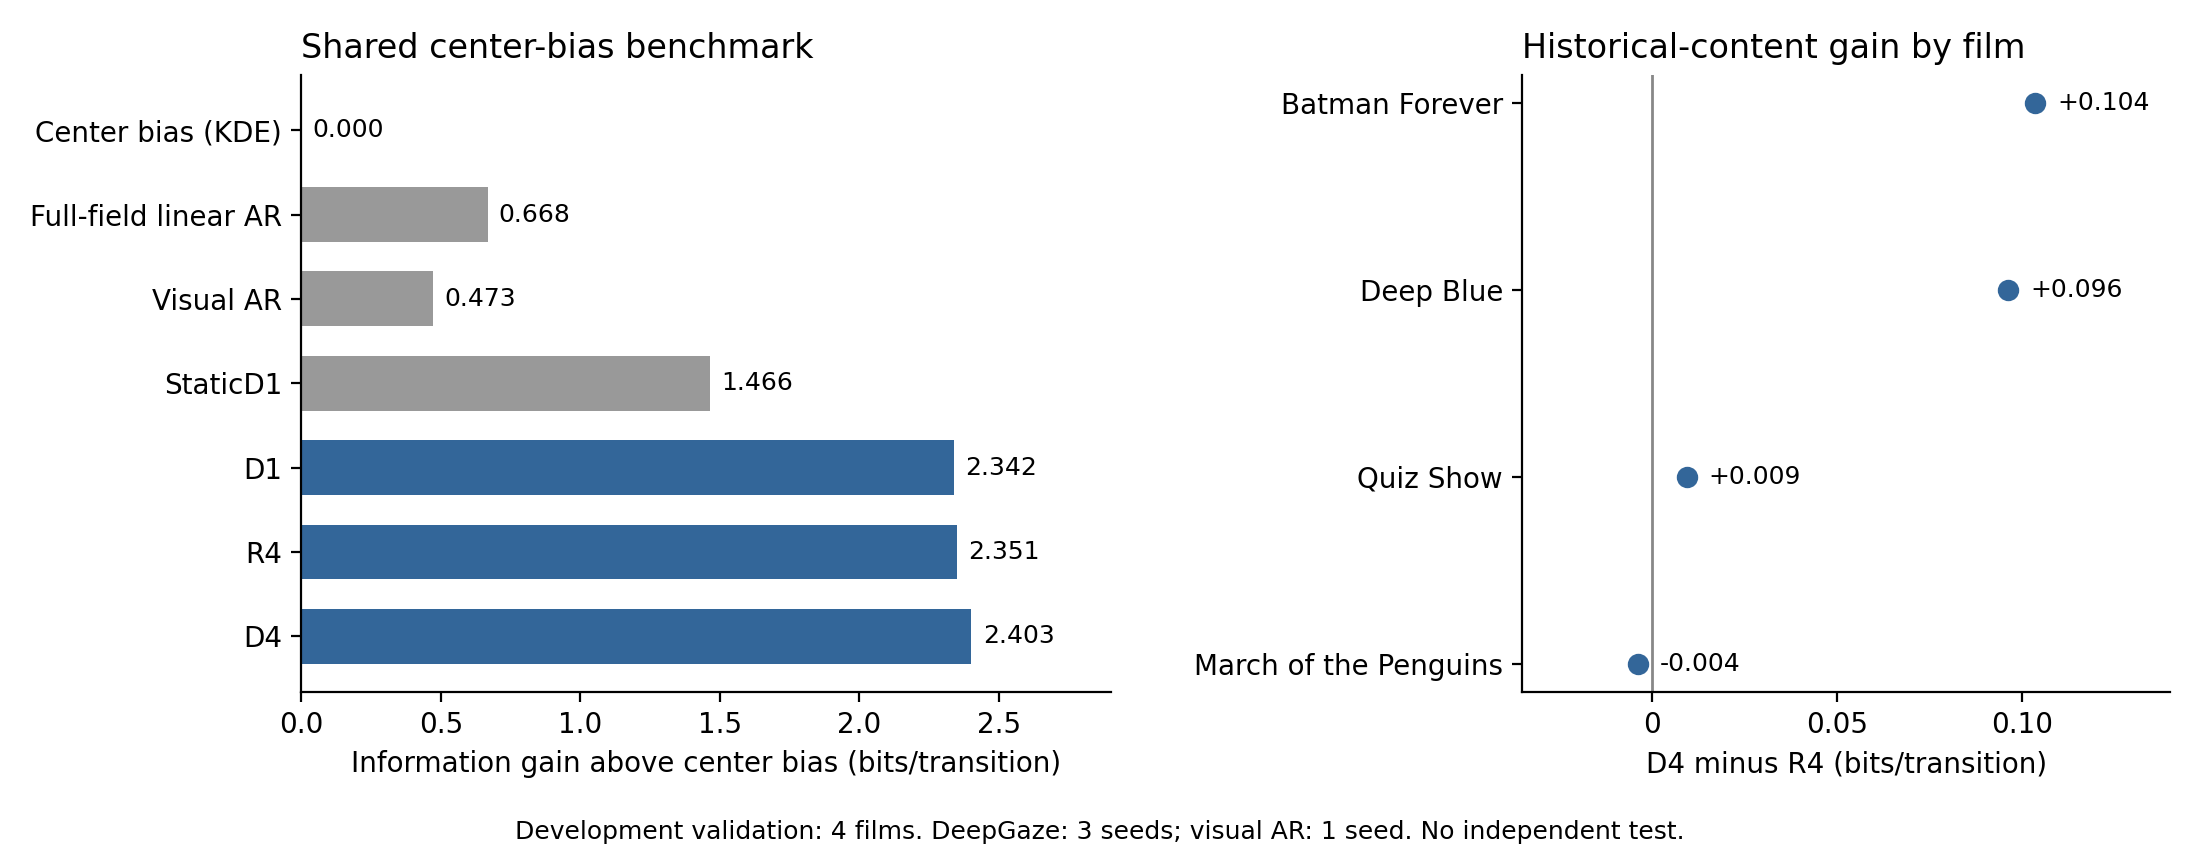
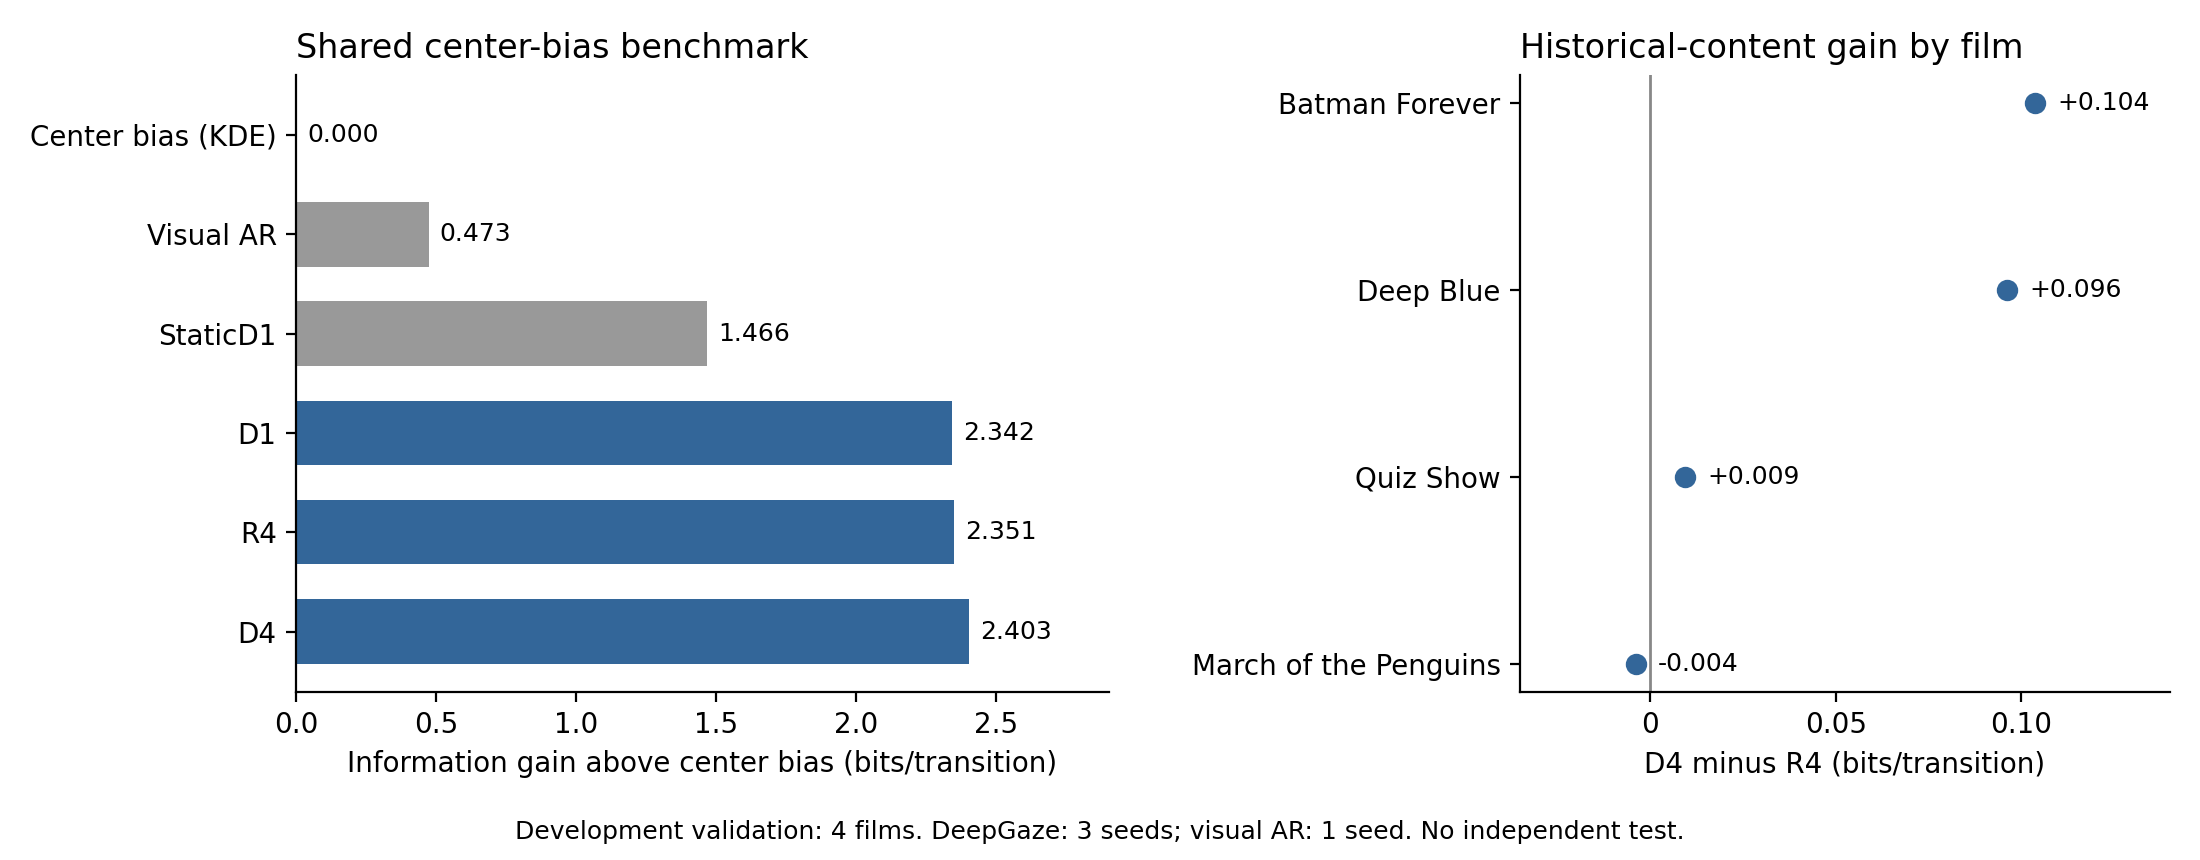
Simplify README and retain the visual AR benchmark

diff --git a/scripts/plot_results.py b/scripts/plot_results.py
@@ -27,12 +27,6 @@ def export_results(storage):
     center_bias = baselines['macro_film_bits']['train_kde_scott']
     names = [
         ('train_kde_scott', 'Center bias (KDE)'),
-        ('train_gaussian', 'Spatial Gaussian'),
-        ('existing_histogram', 'Spatial histogram'),
-        ('persistence', 'Persistence'),
-        ('ar1', 'Endpoint AR(1)'),
-        ('ar4', 'Endpoint AR(4)'),
-        ('linear_history4', 'Full-field linear AR'),
         ('neural_ar_d4', 'Visual AR'),
     ]
     benchmark = []
@@ -94,11 +88,11 @@ def plot(results, output):
                          'axes.unicode_minus': False, 'axes.spines.top': False,
                          'axes.spines.right': False})
     fig, (left, right) = plt.subplots(1, 2, figsize=(11, 4.3), gridspec_kw={'width_ratios': [1.25, 1]})
-    keys = ['train_kde_scott', 'linear_history4', 'neural_ar_d4', 'static_d1', 'd1', 'r4', 'd4']
+    keys = ['train_kde_scott', 'neural_ar_d4', 'static_d1', 'd1', 'r4', 'd4']
     rows = {row['model']: row for row in results['benchmark']}
     scores = [rows[key]['ig_bits'] for key in keys]
     labels = [rows[key]['label'] for key in keys]
-    colors = ['#999999'] * 4 + ['#336699'] * 3
+    colors = ['#999999'] * 3 + ['#336699'] * 3
     left.barh(range(len(keys)), scores, color=colors, height=0.65)
     left.set_yticks(range(len(keys)), labels)
     left.invert_yaxis()

diff --git a/README.md b/README.md
@@ -2,7 +2,7 @@
 
 Predict the next gaze landing in a video from the viewer's completed gaze events and the video frames available at saccade onset.
 
-This research workspace adapts [DeepGaze3.5-VL](https://arxiv.org/abs/2607.02083) to the `fovlanding-v1` task. It compares current-frame, repeated-frame, and historical-frame inputs, plus spatial and autoregressive (AR) baselines. Every predictor is benchmarked against the same training-fitted center-bias distribution.
+This project adapts [DeepGaze3.5-VL](https://arxiv.org/abs/2607.02083) to the `fovlanding-v1` task. It compares current-frame, repeated-frame, and historical-frame inputs with a visual autoregressive (AR) baseline. Every predictor is benchmarked against the same training-fitted center-bias distribution.
 
 ## Results
 
@@ -11,9 +11,6 @@ Information gain (IG) is the improvement in log likelihood over a training-only 
 | Model | Video input | IG above center bias |
 |---|---|---:|
 | Center bias (training KDE) | None | 0.000 |
-| Persistence | None | 0.411 |
-| Endpoint AR(4) | None | 0.612 |
-| Full-field linear AR | None | 0.668 |
 | Population visual AR | Four historical frames | 0.473 |
 | StaticD1: released DeepGaze adapter | Current frame | 1.466 |
 | D1: adapted DeepGaze | Current frame | 2.342 |
@@ -22,7 +19,7 @@ Information gain (IG) is the improvement in log likelihood over a training-only 
 
 ![Center-bias benchmark and historical-content gain by film](reports/results.png)
 
-DeepGaze D1/R4/D4 average three training seeds. Visual AR uses one seed and a different training budget. These are separate predictors, not a seed ensemble.
+DeepGaze D1/R4/D4 scores average three training seeds. Visual AR uses one seed and a different training budget.
 
 | Paired DeepGaze comparison | Mean gain, bits/transition |
 |---|---:|
@@ -34,7 +31,7 @@ D4 beats R4 in all three seeds, but most of its selected-checkpoint gain comes f
 
 These are development results. The validation films also select checkpoints; no untouched final test is reported. Playback alignment and per-trial display geometry remain assumed. The AR comparison differs in pretraining, capacity, resolution, and optimization, so it does not isolate an architecture advantage.
 
-See the [English manuscript](reports/DeepGaze35_Video_Manuscript.md) for methods and limitations. [Aggregate results](reports/results.json) include film and seed differences, descriptive intervals, and source hashes. The plot is regenerated by `scripts/plot_results.py`. Historical training logs use a histogram prior for their `ig_bits` field; the public results consistently subtract the KDE instead.
+See the [manuscript](reports/DeepGaze35_Video_Manuscript.md) for methods and limitations. [Aggregate results](reports/results.json) include film and seed differences, descriptive intervals, and source hashes.
 
 ## Method
 
@@ -59,11 +56,11 @@ D1 sees the current frame. D4 sees four causal frames at nominal offsets of -1, 
 
 Each condition trains for 1,000 updates with effective batch 16, AdamW learning rate 2e-5, and validation every 100 updates. Seeds 0, 1, and 2 share the same initialization and matched schedules within each seed.
 
-### Autoregressive baselines and center bias
+### Visual AR and center bias
 
 Visual AR uses frozen ImageNet ResNet18 features, 2 x 2 spatial pooling, a 32-unit GRU over gaze history, and five input-dependent diagonal Gaussians. Ordered frame features are compressed into a fixed context supplied to the GRU; the GRU does not recur over video frames. Gaussian cell integrals produce heatmaps and exact target likelihoods. The model has 77,689 trainable parameters and trains for 20 epochs.
 
-Linear AR fits the next coordinate from previous endpoints or all six gaze-history fields. Ridge and scale choices use leave-one-training-film-out validation. The center-bias KDE uses only training landing positions, with Scott bandwidths. Its cell probabilities are held fixed for every model:
+The center-bias KDE uses only training landing positions, with Scott bandwidths. Its cell probabilities are held fixed for every model:
 
 ```text
 IG(model) = mean_by_film(log2 p_model(target) - log2 p_center_bias(target))
@@ -78,27 +75,15 @@ scripts/       Data checks, comparisons, plotting, checkpoint deduplication
 slurm/         LRZ batch entry point
 tests/         Causality, probability, pairing, and checkpoint tests
 reports/       Manuscript, aggregate results, and result plot
-docs/          Running and publishing instructions
+docs/          Environment and running instructions
 fovlanding.py  Event-to-target construction and prompt serialization
 ```
 
-Root helper modules supply shared probability, model-input, and checkpoint functions. Datasets, model weights, environments, original trial provenance, and run directories stay outside the public repository.
+Datasets and model weights are not included.
 
 ## Running
 
-The training workflow uses Slurm. On LRZ, submit installation, tests, hashing, decoding, plotting, and model computation through Slurm; login nodes are for editing and scheduler commands.
-
-Set `ROUTEB_STORAGE` to your project data directory and `ROUTEB_INITIALIZATION` to the preserved official gaze-adapter directory. The latter must contain `initialization.json`, processor files, and `static/adapter_model.safetensors`. Exact experiment data and trained adapters are not bundled.
-
-```bash
-export ROUTEB_STORAGE=/path/to/project-storage
-export ROUTEB_INITIALIZATION=/path/to/preserved-gaze-initialization
-mkdir -p logs
-sbatch slurm/fovlanding.sbatch setup
-sbatch slurm/fovlanding.sbatch check
-```
-
-See [running instructions](docs/RUNNING.md) for input contracts, model preparation, training, comparisons, and LRZ resource requests. The fixed development cohort contains 7,144 training transitions from ten source films and 2,571 validation transitions from four other films.
+See [running instructions](docs/RUNNING.md) for data formats, model preparation, environment setup, training, and evaluation. The development cohort contains 7,144 training transitions from ten source films and 2,571 validation transitions from four other films. Exact cohort reconstruction requires the project-specific preprocessing records described there.
 
 To regenerate the plot on a local CPU environment:
 
@@ -107,14 +92,8 @@ python -m pip install matplotlib==3.10.7
 python scripts/plot_results.py
 ```
 
-On LRZ, run that plotting command inside a CPU allocation.
-
-## Upstream resources and terms
+## References
 
 - [DeepGaze3.5-VL paper](https://arxiv.org/abs/2607.02083) and [official code/adapter](https://github.com/Susmit-A/DeepGaze3.5-VL).
 - [InternVL3.5-8B-HF](https://huggingface.co/OpenGVLab/InternVL3_5-8B-HF), pinned revision `741a7d03020411e666c6109218ab71e08151ef86`.
 - [Hollywood eye-movement database](https://doi.org/10.1016/j.dib.2019.103991).
-
-No license is supplied for this project's original code. The upstream DeepGaze evaluation code and gaze adapter are restricted to non-commercial research use. Base-model weights and datasets retain their own terms; this repository does not redistribute them.
-
-For a first public release, use the [publishing instructions](docs/PUBLISHING.md) to export the reviewed source tree with a fresh Git history.
